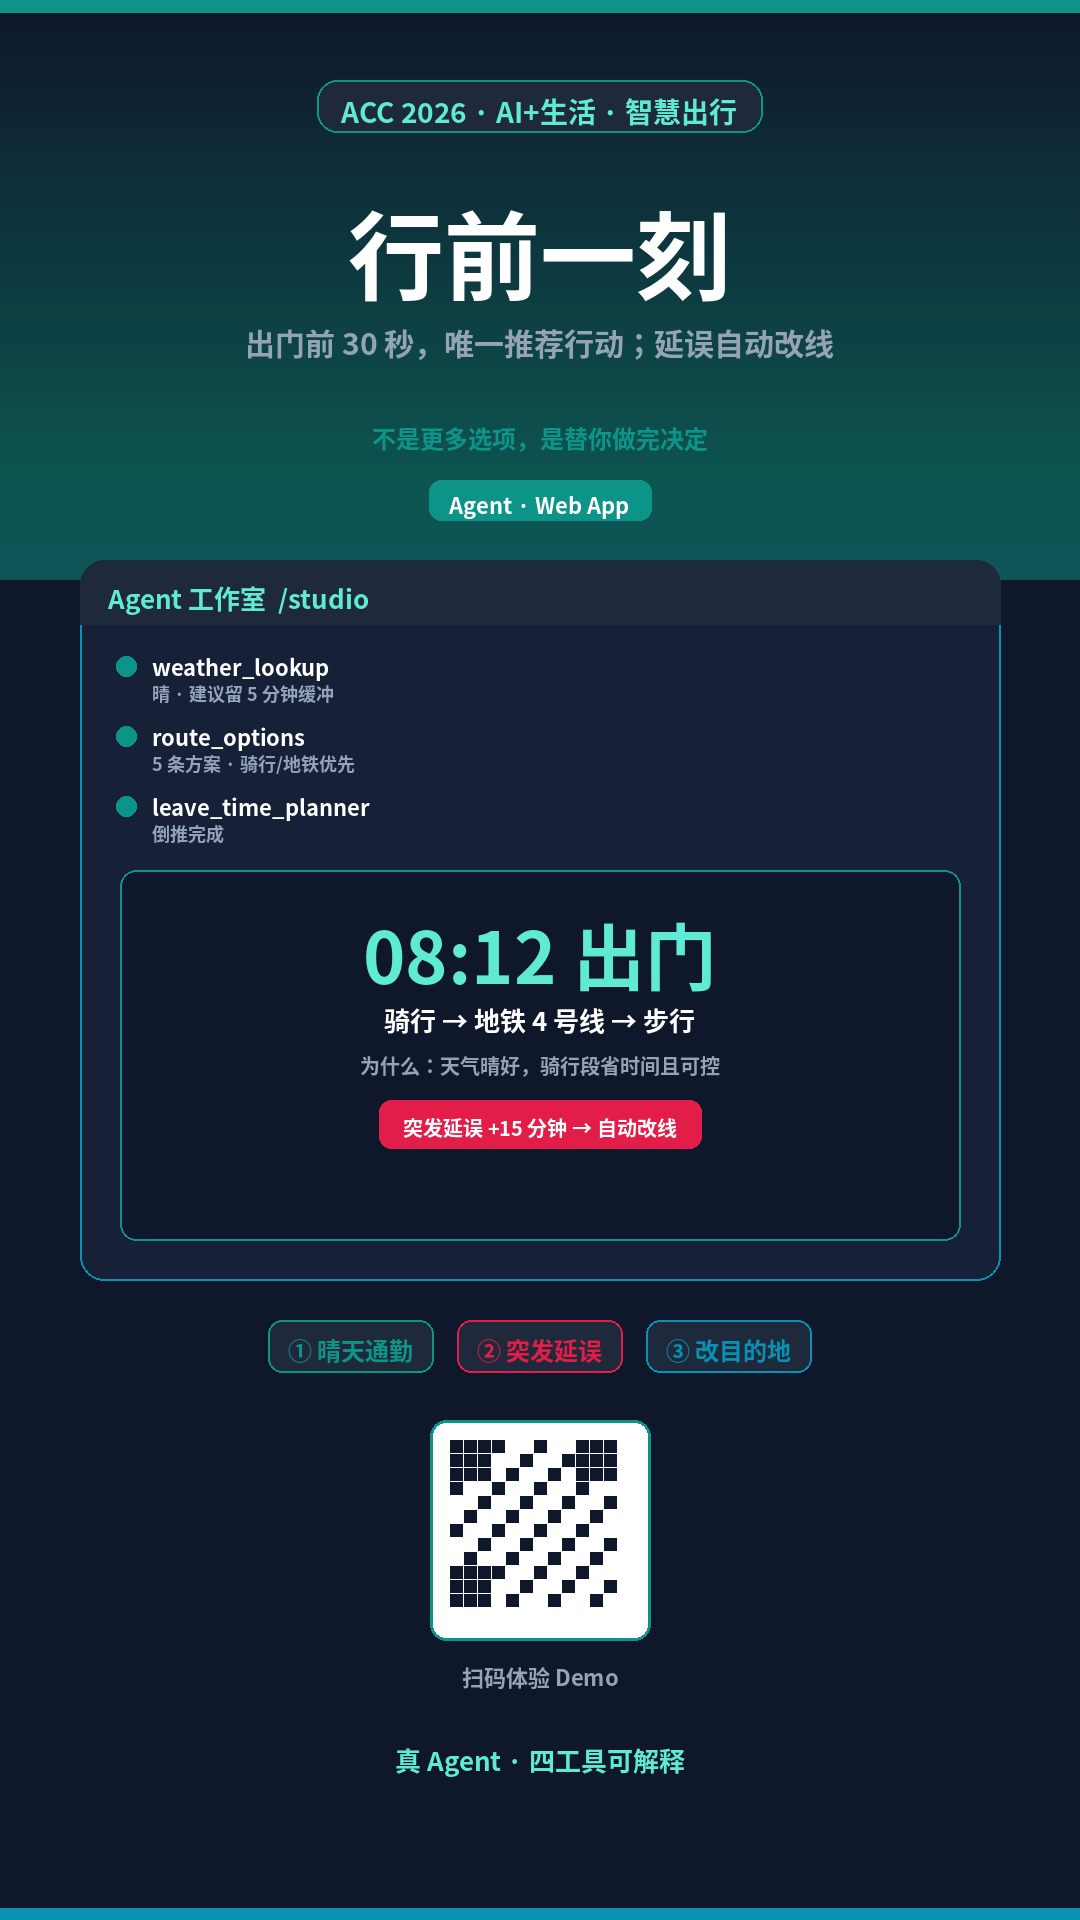
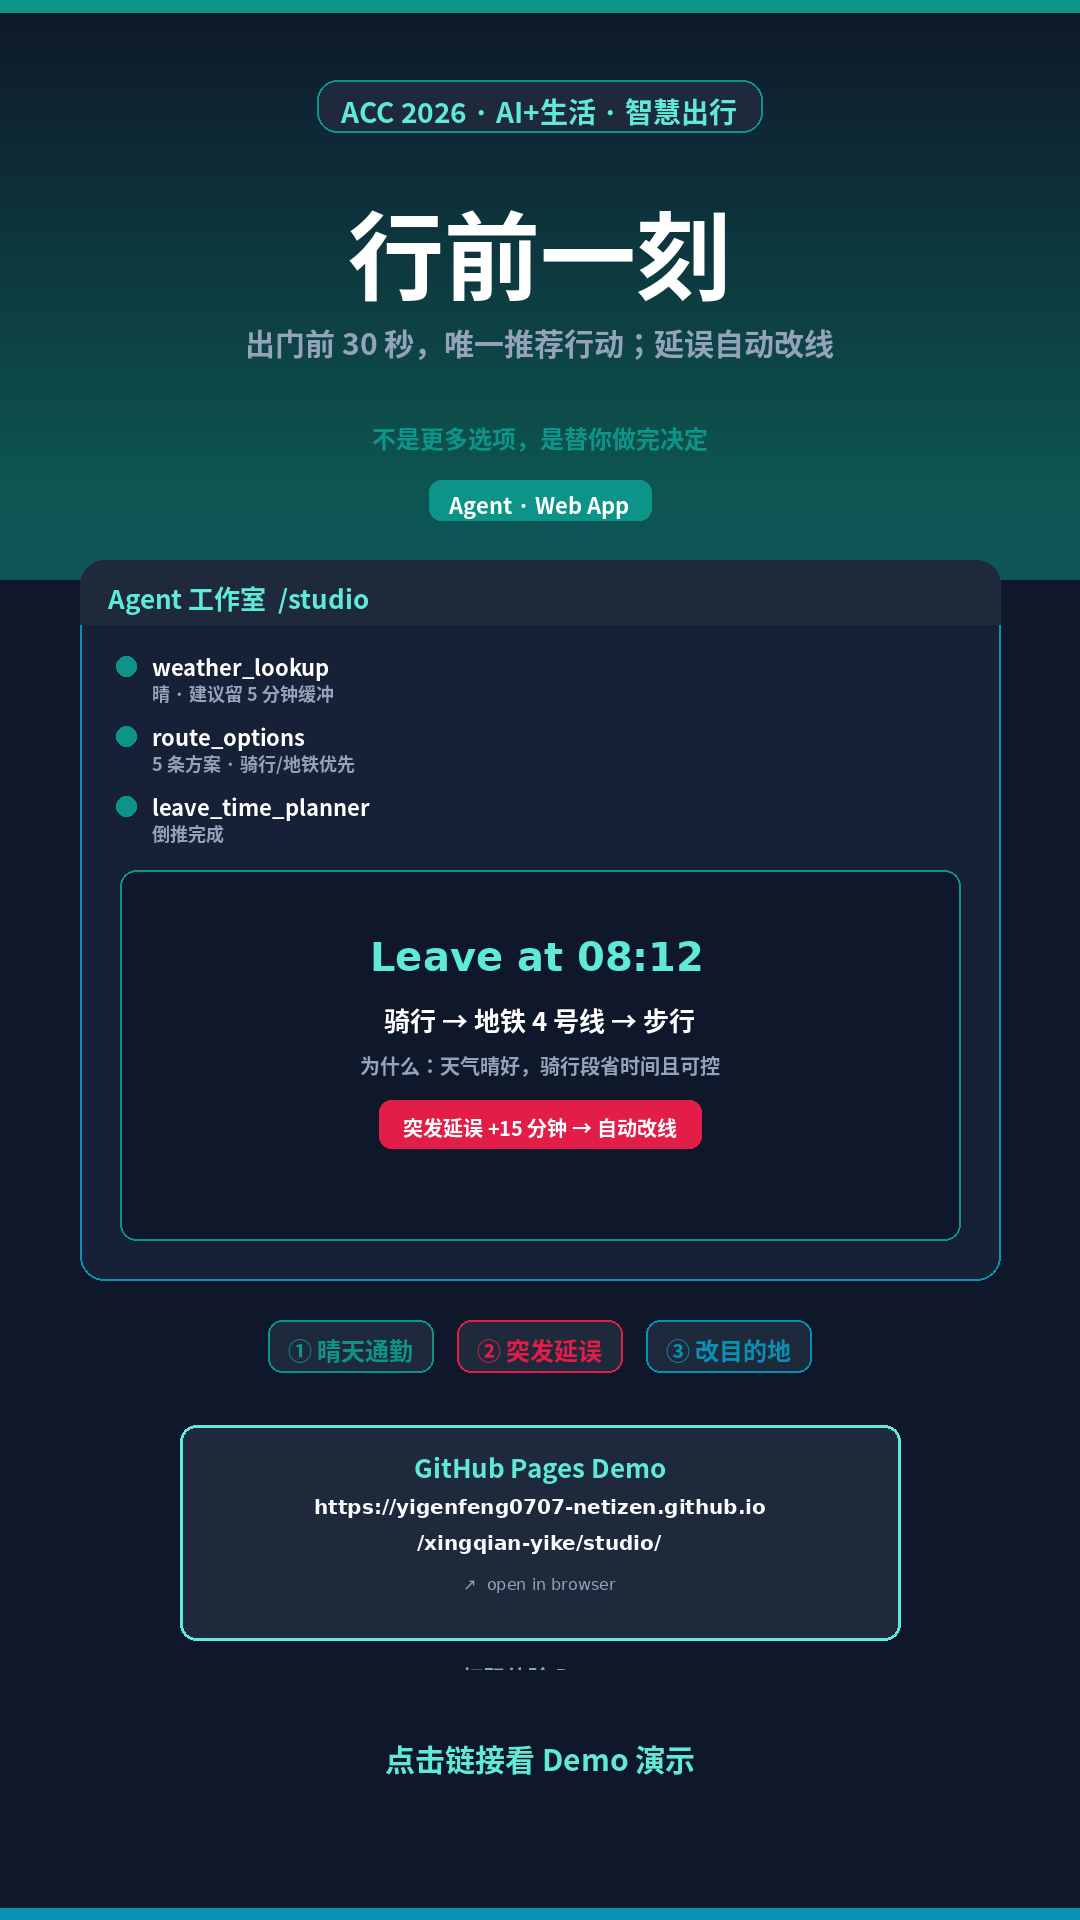
design: poster shows Pages demo link instead of QR

Changed region(s): [[0.3056, 0.7188, 0.7028, 0.875], [0.3361, 0.4688, 0.6722, 0.5312], [0.3667, 0.9062, 0.6417, 0.9375]]

diff --git a/docs/poster-brief.md b/docs/poster-brief.md
@@ -5,7 +5,8 @@
 - **副标题 / 价值主张**：出门前 30 秒，唯一推荐行动；延误自动改线
 - **赛道标识**：ACC 2026 · AI+生活 · 智慧出行（勿写成独立「智慧出行赛道」）
 - **主视觉**：Agent 工作室截图（工具轨迹 + 结果卡「xx:xx 出门」）
-- **二维码**：Demo 链接 或 GitHub 仓库（现场打印前更新）
+- **Demo 入口**：直接展示 GitHub Pages 链接（非二维码）；文案「点击链接看 Demo 演示」
+- Demo URL：https://yigenfeng0707-netizen.github.io/xingqian-yike/studio/
 - **队名 / 作品类型**：Agent · Web App
 
 ## 构图建议
